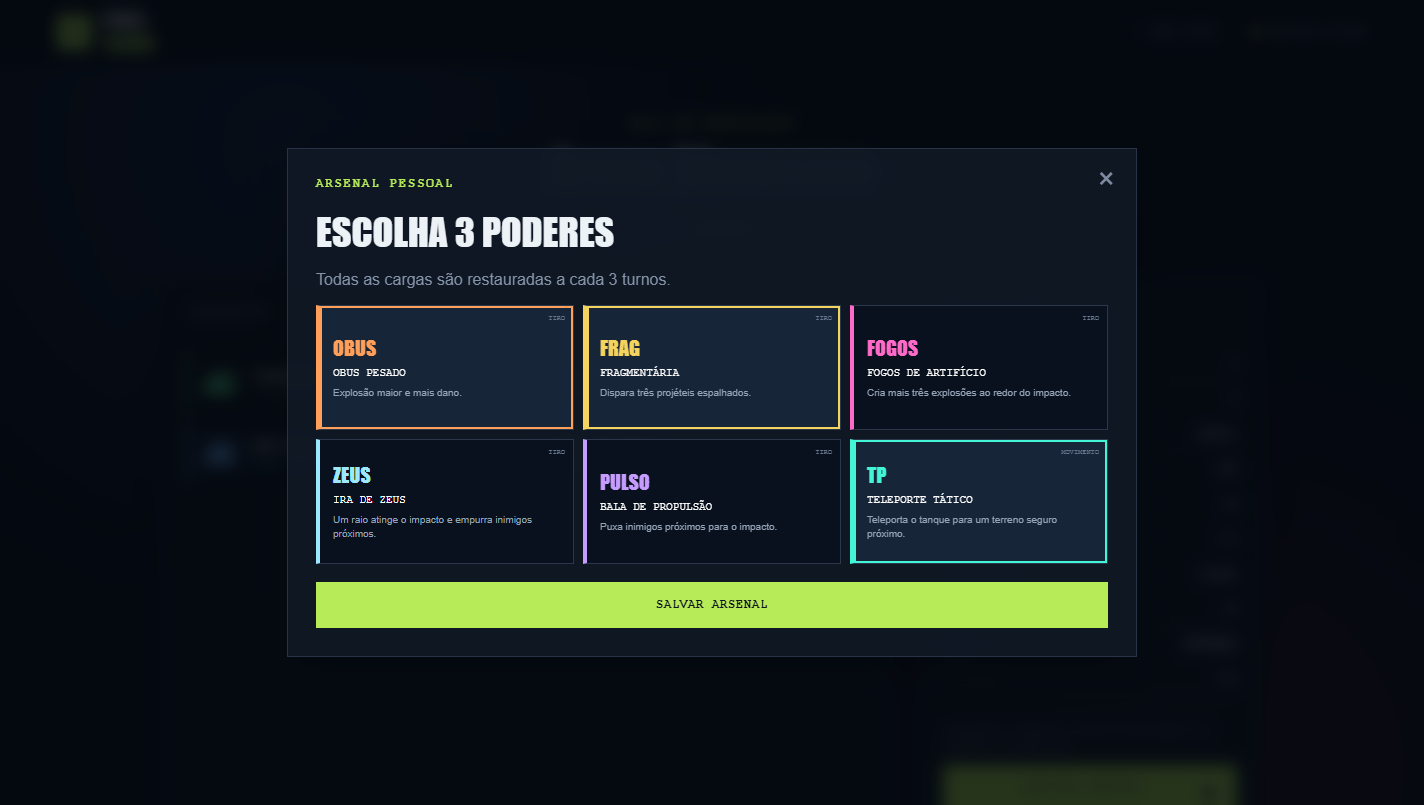
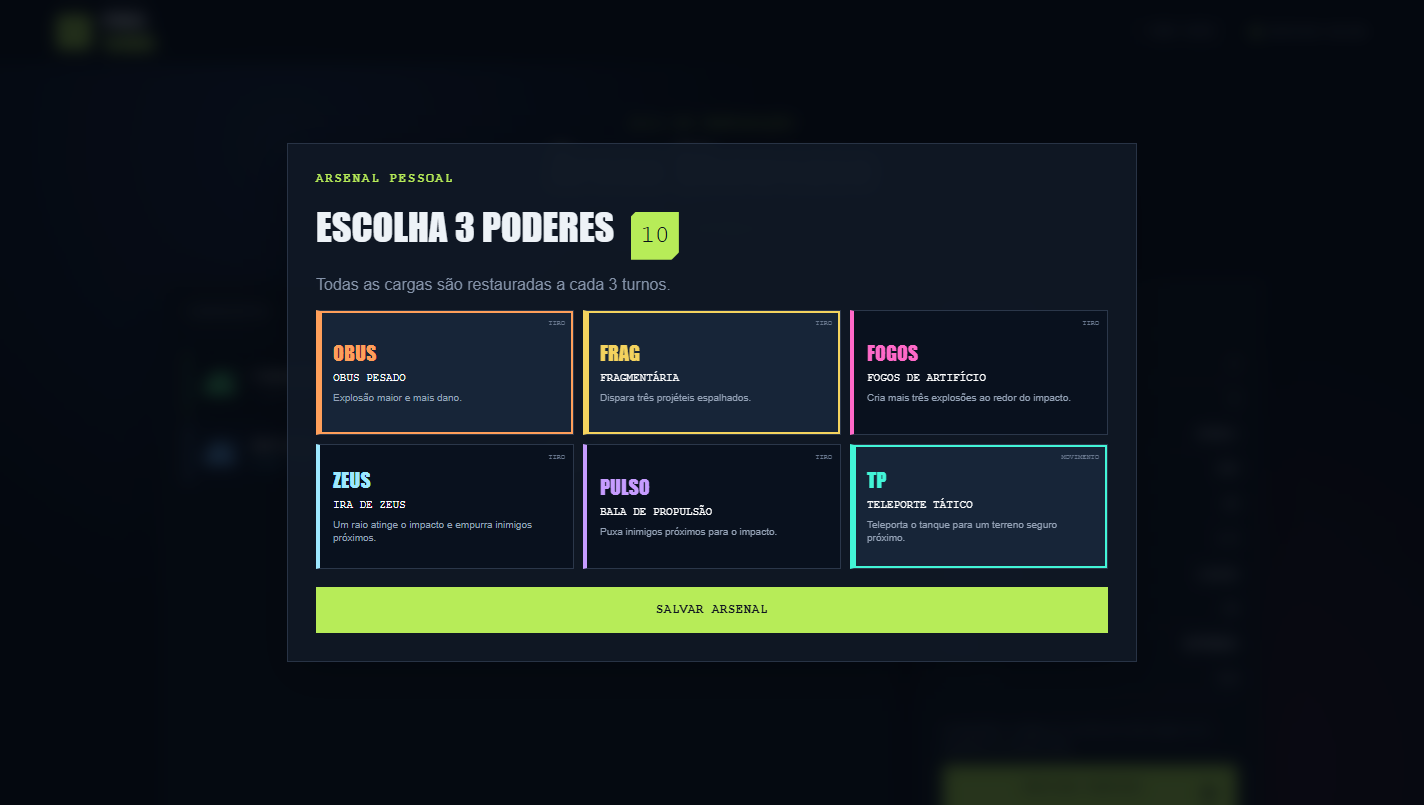
feat: add timed powerup cards and first-turn roulette

diff --git a/client/app.js b/client/app.js
@@ -1,5 +1,5 @@
 import { CLIENT, SERVER } from '/shared/protocol.js';
-import { ARSENAL_DEFS, POWERUP_DEFS } from '/shared/constants.js';
+import { ARSENAL_DEFS, POWERUP_DEFS, POWERUPS } from '/shared/constants.js';
 import { GameNetwork } from './network.js';
 import { Renderer } from './renderer.js';
 import { BattleAudio } from './audio.js';
@@ -10,7 +10,7 @@ const audio = new BattleAudio();
 let room = null; let game = null; let playerId = sessionStorage.getItem('tankPlayerId'); let lastTurn = null; let toastTimer;
 let aimDirection = 1; let aiming = false;
 let selectedWeapon = 'standard'; let resultSoundPlayed = false; let resultSequence = 0; let lastArenaEventId = null;
-let focusTimer; let pickupTimer;
+let focusTimer; let pickupTimer; let rouletteTimer; let savedArsenalSeed = null;
 const chatHistory = [];
 function screen(id) { $$('.screen').forEach((s) => s.classList.toggle('active', s.id === id)); document.body.classList.toggle('playing', id === 'gameScreen'); }
 function toast(text) { const el = $('#toast'); el.textContent = text; el.classList.add('show'); clearTimeout(toastTimer); toastTimer = setTimeout(() => el.classList.remove('show'), 2300); }
@@ -136,7 +136,9 @@ net.on(SERVER.GAME_STATE, (state) => {
   if (arenaEvent && arenaEvent.id !== lastArenaEventId) { lastArenaEventId = arenaEvent.id; renderer.playArenaEvent(arenaEvent); audio.arena(arenaEvent.type); toast(arenaEvent.label); }
   const sequence = ++resultSequence;
   if (state.phase === 'finished') { screen('gameScreen'); renderHud(); renderer.whenBattleAnimationsComplete(() => { if (sequence === resultSequence && game?.phase === 'finished') renderResult(); }); }
-  else { resultSoundPlayed = false; screen('gameScreen'); renderHud(); }
+  else if (state.phase === 'arsenal') { resultSoundPlayed = false; screen('gameScreen'); $('#rouletteModal').hidden = true; if (savedArsenalSeed !== state.seed) openArsenal(true); }
+  else if (state.phase === 'roulette') { resultSoundPlayed = false; screen('gameScreen'); $('#arsenalModal').hidden = true; renderRoulette(state); }
+  else { resultSoundPlayed = false; screen('gameScreen'); $('#rouletteModal').hidden = true; clearInterval(rouletteTimer); renderHud(); }
 });
 net.on(SERVER.SHOT_RESULT, (result) => {
   renderer.playShot(result); const first = result.results?.[0]; const flight = renderer.shotDuration(result);
@@ -156,20 +158,28 @@ function renderRoom() {
   const me = room.players.find((player) => player.id === playerId); $('#arsenalButton').textContent = `MEU ARSENAL: ${(me?.arsenal || []).map((type) => ARSENAL_DEFS[type]?.short).join(' • ')}`;
 }
 
-function openArsenal() {
-  const selected = new Set(room?.players.find((player) => player.id === playerId)?.arsenal || []);
+function openArsenal(timed = false) {
+  const selected = new Set((game?.phase === 'arsenal' ? game.players : room?.players)?.find((player) => player.id === playerId)?.arsenal || []);
   $('#arsenalCatalog').innerHTML = Object.entries(ARSENAL_DEFS).map(([type, info]) => `<button class="${selected.has(type) ? 'selected' : ''}" data-arsenal="${type}" style="--item:${info.color}"><b>${info.short}</b><strong>${info.name}</strong><span>${escapeHtml(info.description)}</span><i>${info.kind === 'movement' ? 'MOVIMENTO' : 'TIRO'}</i></button>`).join('');
   $('#arsenalModal').hidden = false;
+  $('#arsenalClose').hidden = timed; $('#arsenalCountdown').textContent = timed ? '10' : '';
 }
 $('#arsenalButton').onclick = openArsenal; $('#arsenalClose').onclick = () => { $('#arsenalModal').hidden = true; };
 $('#arsenalCatalog').onclick = (event) => { const button = event.target.closest('[data-arsenal]'); if (!button) return; if (!button.classList.contains('selected') && $$('#arsenalCatalog .selected').length >= 3) { toast('Escolha somente 3 poderes.'); return; } button.classList.toggle('selected'); };
-$('#arsenalSave').onclick = () => { const choices = $$('#arsenalCatalog .selected').map((button) => button.dataset.arsenal); if (choices.length !== 3) { toast('Escolha exatamente 3 poderes.'); return; } send(CLIENT.SET_ARSENAL, { choices }); $('#arsenalModal').hidden = true; };
+$('#arsenalSave').onclick = () => { const choices = $$('#arsenalCatalog .selected').map((button) => button.dataset.arsenal); if (choices.length !== 3) { toast('Escolha exatamente 3 poderes.'); return; } if (game?.phase === 'arsenal') savedArsenalSeed = game.seed; send(CLIENT.SET_ARSENAL, { choices }); $('#arsenalModal').hidden = true; };
 
 function renderRewardOffer() {
   const offer = game?.players.find((player) => player.id === playerId)?.rewardOffer; const modal = $('#rewardModal');
   modal.hidden = !offer; if (!offer) return;
-  $('#rewardChoices').innerHTML = offer.choices.map((type) => { const info = POWERUP_DEFS[type]; return `<button data-reward="${type}" style="--item:${info.color}"><b>${info.short}</b><strong>${info.name}</strong><span>${escapeHtml(info.description)}</span></button>`; }).join('');
+  $('#rewardChoices').innerHTML = offer.choices.map((type) => { const info = POWERUP_DEFS[type]; const index = POWERUPS.indexOf(type); return `<button data-reward="${type}" style="--item:${info.color};--col:${index % 5};--row:${Math.floor(index / 5)}"><i class="card-art"></i><span class="card-rarity">POWERUP</span><b>${info.short}</b><strong>${info.name}</strong><span>${escapeHtml(info.description)}</span><em>ESCOLHER</em></button>`; }).join('');
   $$('#rewardChoices [data-reward]').forEach((button) => button.onclick = () => send(CLIENT.CLAIM_REWARD, { type: button.dataset.reward }));
+}
+
+function renderRoulette(state) {
+  clearInterval(rouletteTimer); const modal = $('#rouletteModal'); modal.hidden = false;
+  $('#rouletteTrack').innerHTML = state.players.map((player, index) => `<div data-player-index="${index}" style="--player:${player.color}"><span class="tank-avatar"></span><b>${escapeHtml(player.nickname)}</b></div>`).join('');
+  const update = () => { const elapsed = Date.now() - state.rouletteStartedAt; const progress = Math.min(1, elapsed / Math.max(1, state.rouletteEndsAt - state.rouletteStartedAt)); const sequenceIndex = Math.min(state.rouletteSequence.length - 1, Math.floor(progress * state.rouletteSequence.length)); const activeIndex = state.rouletteSequence[sequenceIndex]; $$('#rouletteTrack>div').forEach((item) => item.classList.toggle('active', Number(item.dataset.playerIndex) === activeIndex)); const winner = state.players[state.turnIndex]; $('#rouletteResult').textContent = progress > .9 ? `${winner.nickname} COMEÇA!` : 'SORTEANDO...'; };
+  update(); rouletteTimer = setInterval(update, 80);
 }
 
 function renderHud() {
@@ -203,6 +213,10 @@ function renderResult() {
   $('#rematchButton').hidden = playerId !== room.hostId;
 }
 
-setInterval(() => { if (!game || game.phase !== 'playing') return; const seconds = Math.max(0, Math.ceil((game.turnEndsAt - Date.now()) / 1000)); $('#turnTimer').textContent = seconds; }, 250);
+setInterval(() => {
+  if (!game) return;
+  if (game.phase === 'playing') { const seconds = Math.max(0, Math.ceil((game.turnEndsAt - Date.now()) / 1000)); $('#turnTimer').textContent = seconds; const offer = game.players.find((player) => player.id === playerId)?.rewardOffer; if (offer) $('#rewardCountdown').textContent = Math.max(0, Math.ceil((offer.expiresAt - Date.now()) / 1000)); }
+  if (game.phase === 'arsenal') $('#arsenalCountdown').textContent = Math.max(0, Math.ceil((game.arsenalEndsAt - Date.now()) / 1000));
+}, 200);
 function escapeHtml(value) { return value.replace(/[&<>'"]/g, (c) => ({ '&': '&amp;', '<': '&lt;', '>': '&gt;', "'": '&#39;', '"': '&quot;' })[c]); }
 net.connect();

diff --git a/client/styles.css b/client/styles.css
@@ -47,3 +47,10 @@ body.playing .desktop-help{flex:0 0 auto}
 
 .leave-button{color:#ff8b73;font:900 9px var(--mono);cursor:pointer}.chat-panel{position:absolute;right:14px;bottom:14px;z-index:12;width:min(340px,45%);opacity:.35;transition:.2s;pointer-events:none}.chat-panel.open,.chat-panel.has-message{opacity:1}.chat-panel.open{pointer-events:auto}.chat-messages{max-height:150px;overflow:auto;padding:8px;background:#050a12bb;font:10px/1.35 var(--mono)}.chat-messages div{display:flex;gap:7px;margin:3px 0}.chat-messages b{white-space:nowrap}.chat-messages span{color:#e7edf7;overflow-wrap:anywhere}.chat-panel form{display:none}.chat-panel.open form{display:block}.chat-panel input{width:100%;border:1px solid #51d3f5;background:#08111deF;color:white;padding:10px;font:11px var(--mono);outline:none}.reward-modal{position:absolute;inset:0;z-index:30;display:grid;place-items:center;background:#02050bcc;backdrop-filter:blur(5px);padding:15px}.reward-modal[hidden]{display:none}.reward-box{width:min(700px,96%);padding:25px;text-align:center}.reward-box>small{color:var(--acid);font:800 10px var(--mono)}.reward-box h2{font:32px var(--display);margin:8px 0 20px}.reward-box>div{display:grid;grid-template-columns:repeat(3,1fr);gap:10px}.reward-box button{min-height:150px;border:1px solid var(--item);border-bottom:5px solid var(--item);background:#0b1422;color:white;padding:14px;cursor:pointer}.reward-box button:hover{transform:translateY(-3px);background:#142238}.reward-box button b,.reward-box button strong,.reward-box button span{display:block}.reward-box button b{font:24px var(--display);color:var(--item)}.reward-box button strong{margin:9px 0;font:13px var(--mono)}.reward-box button span{color:#94a2b7;font-size:10px;line-height:1.4}@media(max-width:700px){.chat-panel{width:70%;bottom:7px}.reward-box>div{grid-template-columns:1fr}.reward-box button{min-height:80px}.reward-box button span{display:none}.leave-button{padding:6px}.arena-card{display:none}}
 .arsenal-weapons{display:flex;gap:2px}.weapon[style]{border-bottom-color:var(--arsenal)}.arsenal-config{position:relative;width:min(850px,96vw);max-height:90vh;overflow:auto;padding:28px}.arsenal-config h2{font:38px var(--display);margin:0}.arsenal-config>p:not(.eyebrow){color:#8492a8}.arsenal-config .primary{margin-top:18px}#arsenalCatalog{display:grid;grid-template-columns:repeat(3,1fr);gap:9px}#arsenalCatalog button{position:relative;min-height:125px;text-align:left;padding:13px;background:#09111e;color:white;border:1px solid #2b374a;border-left:4px solid var(--item);cursor:pointer}#arsenalCatalog button.selected{background:#172538;box-shadow:inset 0 0 0 2px var(--item)}#arsenalCatalog b,#arsenalCatalog strong,#arsenalCatalog span{display:block}#arsenalCatalog b{color:var(--item);font:20px var(--display)}#arsenalCatalog strong{margin:7px 0;font:11px var(--mono)}#arsenalCatalog span{color:#95a3b7;font-size:10px;line-height:1.35}#arsenalCatalog i{position:absolute;right:8px;top:8px;color:#68778e;font:7px var(--mono)}@media(max-width:650px){#arsenalCatalog{grid-template-columns:1fr 1fr}.arsenal-config{padding:18px}.arsenal-weapons{max-width:150px;overflow:auto}}
+
+/* Collectible powerup cards */
+.reward-box{width:min(980px,98%);background:linear-gradient(145deg,#131e31,#070d18);box-shadow:0 30px 90px #000}.reward-box h2{font-size:38px}.reward-box h2 em,.arsenal-config h2 em{display:inline-grid;place-items:center;width:48px;height:48px;margin-left:10px;background:var(--acid);color:#08101a;font:24px var(--mono);font-style:normal;clip-path:polygon(10% 0,100% 0,100% 85%,85% 100%,0 100%,0 10%)}.reward-box>div{gap:18px}.reward-box button{position:relative;min-height:430px;padding:0 16px 18px;overflow:hidden;text-align:left;background:linear-gradient(180deg,#172238,#0a101b);border:1px solid #46536a;border-bottom:6px solid var(--item);box-shadow:8px 10px 0 #02050a;transition:.18s}.reward-box button:hover{transform:translateY(-8px) rotate(-.5deg);box-shadow:10px 18px 28px #000a}.reward-box .card-art{display:block;height:225px;margin:0 -16px 14px;background-image:linear-gradient(180deg,transparent 72%,#101827 100%),url('/assets/powerup-card-atlas-minimal.png');background-size:500% 400%;background-position:calc(var(--col) * 25%) calc(var(--row) * 33.333%);image-rendering:pixelated}.reward-box .card-rarity{color:var(--item);font:800 8px var(--mono);letter-spacing:2px}.reward-box button b{font-size:26px;margin-top:5px}.reward-box button strong{font-size:15px;margin:3px 0 9px}.reward-box button>span:not(.card-rarity){min-height:42px}.reward-box button>em{display:block;margin-top:14px;padding:8px;text-align:center;background:var(--item);color:#07101a;font:900 9px var(--mono);font-style:normal}.reward-box button:after{content:'';position:absolute;inset:6px;pointer-events:none;border:1px solid color-mix(in srgb,var(--item) 35%,transparent)}
+
+/* First-turn roulette */
+.roulette-modal{position:absolute;inset:0;z-index:35;display:grid;place-items:center;background:#02060de8;backdrop-filter:blur(8px)}.roulette-modal[hidden]{display:none}.roulette-shell{width:min(1050px,96%);text-align:center}.roulette-shell>small{color:var(--acid);font:900 11px var(--mono);letter-spacing:3px}.roulette-track{display:flex;justify-content:center;align-items:center;gap:12px;margin:32px 0;min-height:150px;flex-wrap:wrap}.roulette-track>div{width:140px;padding:22px 10px;background:#0c1422;border:1px solid #26354c;border-bottom:5px solid var(--player);opacity:.38;transform:scale(.92);transition:.08s}.roulette-track>div.active{opacity:1;transform:scale(1.16) translateY(-8px);background:#17243a;box-shadow:0 0 0 3px var(--player),0 0 40px color-mix(in srgb,var(--player) 65%,transparent)}.roulette-track .tank-avatar{display:block;margin:auto}.roulette-track b{display:block;margin-top:17px;font:15px var(--display)}.roulette-shell>strong{display:block;color:white;font:48px var(--display);text-shadow:0 0 28px var(--acid)}
+@media(max-width:700px){.reward-box h2{font-size:25px}.reward-box>div{grid-template-columns:repeat(3,1fr);gap:6px}.reward-box button{min-height:300px;padding:0 7px 10px}.reward-box .card-art{height:150px;margin:0 -7px 8px}.reward-box button b{font-size:17px}.reward-box button strong{font-size:9px}.reward-box button>span:not(.card-rarity){display:none}.reward-box button>em{font-size:7px}.roulette-track>div{width:90px;padding:12px 4px}.roulette-shell>strong{font-size:30px}}

diff --git a/server/game.js b/server/game.js
@@ -36,10 +36,11 @@ export function createGame(room) {
     return { id: `m${i}`, x, y: terrainY(terrain, x) - 3, active: true };
   }) : [];
   const objects = createScenarioObjects(terrain, spawns, rand);
+  const now = Date.now();
   return {
-    phase: 'playing', seed, gravity: room.rules.gravity, speed: room.rules.gameSpeed, wind: windForTurn(seed, 1), terrain, players, powerups, mines, platformEpoch: Date.now(), turnIndex: 0, turnNumber: 1,
-    turnEndsAt: Date.now() + room.rules.turnSeconds * 1000 / room.rules.gameSpeed,
-    actions: { movesLeft: 2, attackAvailable: true }, winner: null, events: [], objects, graves: [], interactionSerial: 0, pickupSerial: 0, shotEndsAt: null, pendingShot: null, botActAt: Date.now() + botDelay(room.rules.botDifficulty) / room.rules.gameSpeed,
+    phase: 'arsenal', seed, gravity: room.rules.gravity, speed: room.rules.gameSpeed, wind: windForTurn(seed, 1), terrain, players, powerups, mines, platformEpoch: now, turnIndex: 0, turnNumber: 1,
+    arsenalEndsAt: now + 10000, rouletteStartedAt: null, rouletteEndsAt: null, rouletteSequence: [], turnEndsAt: null,
+    actions: { movesLeft: 2, attackAvailable: true }, winner: null, events: [], objects, graves: [], interactionSerial: 0, pickupSerial: 0, shotEndsAt: null, pendingShot: null, botActAt: null,
   };
 }
 
@@ -152,7 +153,7 @@ function offerPowerupChoices(room) {
     for (const type of player.arsenal || []) player.ammo[type] = 1;
     const random = seededRandom(`${game.seed}-reward-${game.turnNumber}-${player.id}`); const pool = [...POWERUPS]; const choices = [];
     while (choices.length < 3 && pool.length) choices.push(pool.splice(Math.floor(random() * pool.length), 1)[0]);
-    player.rewardOffer = { turn: game.turnNumber, choices };
+    player.rewardOffer = { turn: game.turnNumber, choices, expiresAt: Date.now() + 10000 };
     if (player.isBot) { grantPowerup(game, player, choices[Math.floor(random() * choices.length)]); player.rewardOffer = null; }
   }
 }
@@ -453,7 +454,22 @@ export function windForTurn(seed, turnNumber) {
 
 export function tickRoom(room) {
   const game = room.game;
-  if (game?.phase !== 'playing') return null;
+  if (!game) return null;
+  const now = Date.now();
+  if (game.phase === 'arsenal') {
+    if (now < game.arsenalEndsAt) return null;
+    const random = seededRandom(`${game.seed}-first-player`); const eligible = game.players.map((_, index) => index); const winnerIndex = eligible[Math.floor(random() * eligible.length)];
+    const sequence = Array.from({ length: 18 }, () => eligible[Math.floor(random() * eligible.length)]); sequence.push(winnerIndex);
+    game.turnIndex = winnerIndex; game.rouletteSequence = sequence; game.rouletteStartedAt = now; game.rouletteEndsAt = now + 4500; game.phase = 'roulette'; return { changed: true };
+  }
+  if (game.phase === 'roulette') {
+    if (now < game.rouletteEndsAt) return null;
+    game.phase = 'playing'; game.turnEndsAt = now + room.rules.turnSeconds * 1000 / room.rules.gameSpeed; game.botActAt = now + botDelay(room.rules.botDifficulty) / room.rules.gameSpeed; return { changed: true };
+  }
+  if (game.phase !== 'playing') return null;
+  let rewardsChanged = false;
+  for (const player of game.players) if (player.rewardOffer && now >= player.rewardOffer.expiresAt) { const random = seededRandom(`${game.seed}-auto-reward-${player.id}-${player.rewardOffer.turn}`); grantPowerup(game, player, player.rewardOffer.choices[Math.floor(random() * player.rewardOffer.choices.length)]); player.rewardOffer = null; rewardsChanged = true; }
+  if (rewardsChanged) return { changed: true };
   updateMovingPlatforms(game);
   if (game.shotEndsAt) {
     if (Date.now() < game.shotEndsAt) return null;

diff --git a/client/index.html b/client/index.html
@@ -102,7 +102,8 @@
         <div class="powerup-hud"><div class="powerup-help"><b>POWERUPS</b><span>COLETE • TOQUE NO ITEM PARA EQUIPAR NESTA RODADA</span></div><div id="inventoryBar" class="inventory-bar"><i>nenhum item ativo</i></div></div>
         <div id="toast" class="toast"></div>
         <div id="chatPanel" class="chat-panel"><div id="chatMessages" class="chat-messages"></div><form id="chatForm"><input id="chatInput" maxlength="160" autocomplete="off" placeholder="Mensagem... (Enter envia)"></form></div>
-        <div id="rewardModal" class="reward-modal" hidden><div class="reward-box panel"><small>RECOMPENSA DE 3 TURNOS</small><h2>ESCOLHA 1 POWERUP</h2><div id="rewardChoices"></div></div></div>
+        <div id="rewardModal" class="reward-modal" hidden><div class="reward-box panel"><small>RECOMPENSA DE 3 TURNOS</small><h2>ESCOLHA 1 POWERUP <em id="rewardCountdown">10</em></h2><div id="rewardChoices"></div></div></div>
+        <div id="rouletteModal" class="roulette-modal" hidden><div class="roulette-shell"><small>SORTEANDO O PRIMEIRO TURNO</small><div id="rouletteTrack" class="roulette-track"></div><strong id="rouletteResult">PREPARE-SE</strong></div></div>
       </div>
       <div class="controls">
         <div class="movement">
@@ -155,7 +156,7 @@
       </div>
     </div>
   </div>
-  <div id="arsenalModal" class="tutorial-modal" role="dialog" aria-modal="true" hidden><div class="arsenal-config panel"><button id="arsenalClose" class="tutorial-close">×</button><p class="eyebrow">ARSENAL PESSOAL</p><h2>ESCOLHA 3 PODERES</h2><p>Todas as cargas são restauradas a cada 3 turnos.</p><div id="arsenalCatalog"></div><button id="arsenalSave" class="primary">SALVAR ARSENAL</button></div></div>
+  <div id="arsenalModal" class="tutorial-modal" role="dialog" aria-modal="true" hidden><div class="arsenal-config panel"><button id="arsenalClose" class="tutorial-close">×</button><p class="eyebrow">ARSENAL PESSOAL</p><h2>ESCOLHA 3 PODERES <em id="arsenalCountdown"></em></h2><p>Todas as cargas são restauradas a cada 3 turnos.</p><div id="arsenalCatalog"></div><button id="arsenalSave" class="primary">SALVAR ARSENAL</button></div></div>
   <script type="module" src="/app.js"></script>
 </body>
 </html>

diff --git a/test/game-features.test.js b/test/game-features.test.js
@@ -1,6 +1,6 @@
 import test from 'node:test';
 import assert from 'node:assert/strict';
-import { createGame, fire, nextTurn, claimReward, sanitizeRules } from '../server/game.js';
+import { createGame, fire, nextTurn, claimReward, sanitizeRules, tickRoom } from '../server/game.js';
 import { simulateShot } from '../server/physics.js';
 import { WORLD } from '../shared/constants.js';
 import { RoomManager } from '../server/rooms.js';
@@ -55,8 +55,19 @@ test('arsenal charges refresh every three turns', () => {
 });
 
 test('fireworks consumes its charge and creates three secondary blasts', () => {
-  const match = room(); match.players[0].arsenal = ['fireworks', 'zeus', 'gravity']; match.game = createGame(match);
+  const match = room(); match.players[0].arsenal = ['fireworks', 'zeus', 'gravity']; match.game = createGame(match); match.game.phase = 'playing';
   const shots = fire(match, 'one', { angle: 45, power: 260, direction: 1, weapon: 'fireworks' });
   assert.equal(match.game.players[0].ammo.fireworks, 0);
   assert.equal(shots.flatMap((shot) => shot.interactions).filter((entry) => entry.type === 'firework').length, 3);
+});
+
+test('pregame waits ten seconds, runs roulette, then starts with its winner', () => {
+  const match = room(); match.game = createGame(match);
+  assert.equal(match.game.phase, 'arsenal');
+  assert.ok(match.game.arsenalEndsAt - Date.now() > 9000);
+  match.game.arsenalEndsAt = Date.now() - 1; tickRoom(match);
+  assert.equal(match.game.phase, 'roulette');
+  const winner = match.game.turnIndex; assert.equal(match.game.rouletteSequence.at(-1), winner);
+  match.game.rouletteEndsAt = Date.now() - 1; tickRoom(match);
+  assert.equal(match.game.phase, 'playing'); assert.equal(match.game.turnIndex, winner);
 });

diff --git a/server/rooms.js b/server/rooms.js
@@ -36,11 +36,14 @@ export class RoomManager {
     return { id: `bot-${crypto.randomUUID()}`, nickname: `BOT ${names[index]}`, color: PLAYER_COLORS[colorIndex], connected: true, isBot: true, socket: null, arsenal: ['heavy', 'fireworks', 'zeus'] };
   }
   setArsenal(code, playerId, choices) {
-    const room = this.rooms.get(code); if (!room || room.game) throw new Error('O arsenal só pode ser alterado no saguão.');
+    const room = this.rooms.get(code); if (!room || (room.game && room.game.phase !== 'arsenal')) throw new Error('O tempo para alterar o arsenal terminou.');
     const player = room.players.find((entry) => entry.id === playerId); if (!player || player.isBot) throw new Error('Jogador inválido.');
     const clean = [...new Set(Array.isArray(choices) ? choices : [])].filter((type) => ARSENAL_ITEMS.includes(type));
     if (clean.length !== 3) throw new Error('Escolha exatamente 3 itens para o arsenal.');
-    player.arsenal = clean; return room;
+    player.arsenal = clean;
+    const gamePlayer = room.game?.players.find((entry) => entry.id === playerId);
+    if (gamePlayer) { gamePlayer.arsenal = [...clean]; gamePlayer.ammo = Object.fromEntries(clean.map((type) => [type, 1])); }
+    return room;
   }
   start(code, playerId) {
     const room = this.rooms.get(code);

diff --git a/README.md b/README.md
@@ -26,6 +26,8 @@ Pixel Tanks é um jogo de estratégia e artilharia para navegador, feito para pa
 
 ![Seleção do Arsenal](docs/screenshots/arsenal.png)
 
+![Contagem regressiva do Arsenal](docs/screenshots/arsenal-countdown.png)
+
 Cada comandante escolhe exatamente três itens no saguão. As habilidades têm uma carga e são recarregadas em conjunto a cada três turnos.
 
 | Poder | Categoria | Efeito |
@@ -41,7 +43,13 @@ Cada comandante escolhe exatamente três itens no saguão. As habilidades têm u
 
 ![Partida do Pixel Tanks](docs/screenshots/battle.png)
 
+Antes do primeiro disparo, uma roleta animada sorteia de forma sincronizada quem começa a partida.
+
+![Roleta do primeiro turno](docs/screenshots/roulette.png)
+
 O terreno muda continuamente. Explosões removem blocos, plataformas podem quebrar, minas reagem em cadeia e cápsulas enterradas são reveladas pelas crateras. A cada três turnos todos recebem três power-ups aleatórios para escolher um, além da recarga do Arsenal.
+
+![Escolha de power-up em três cartas](docs/screenshots/powerup-cards.png)
 
 Quando uma partida se prolonga, a arena acelera o confronto com eventos especiais:
 
